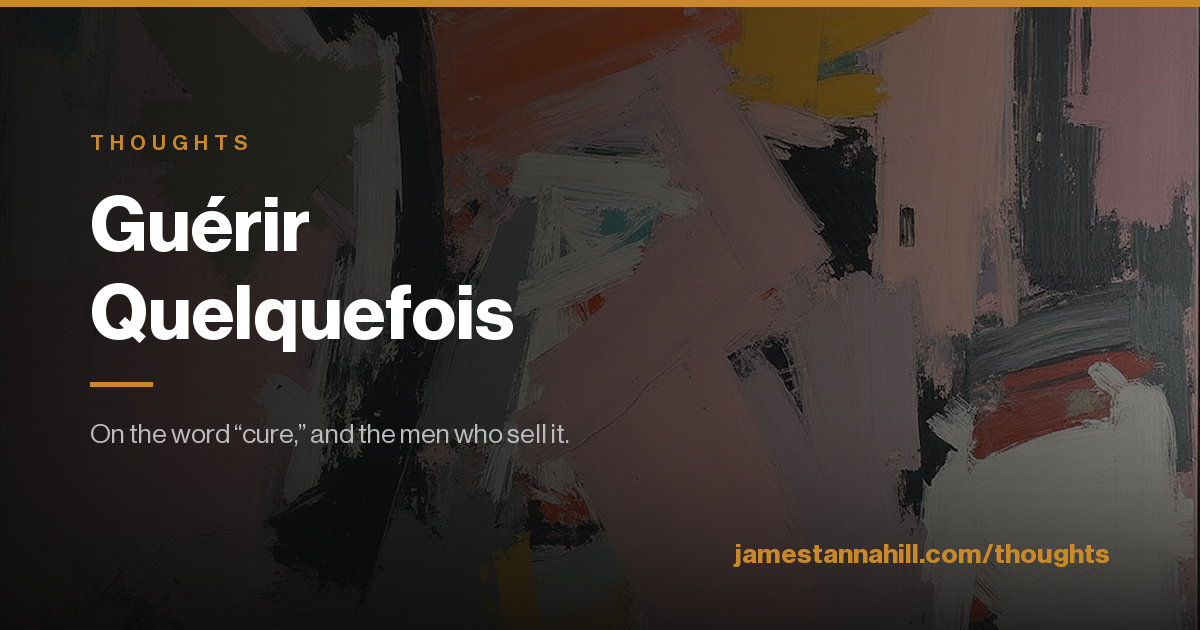
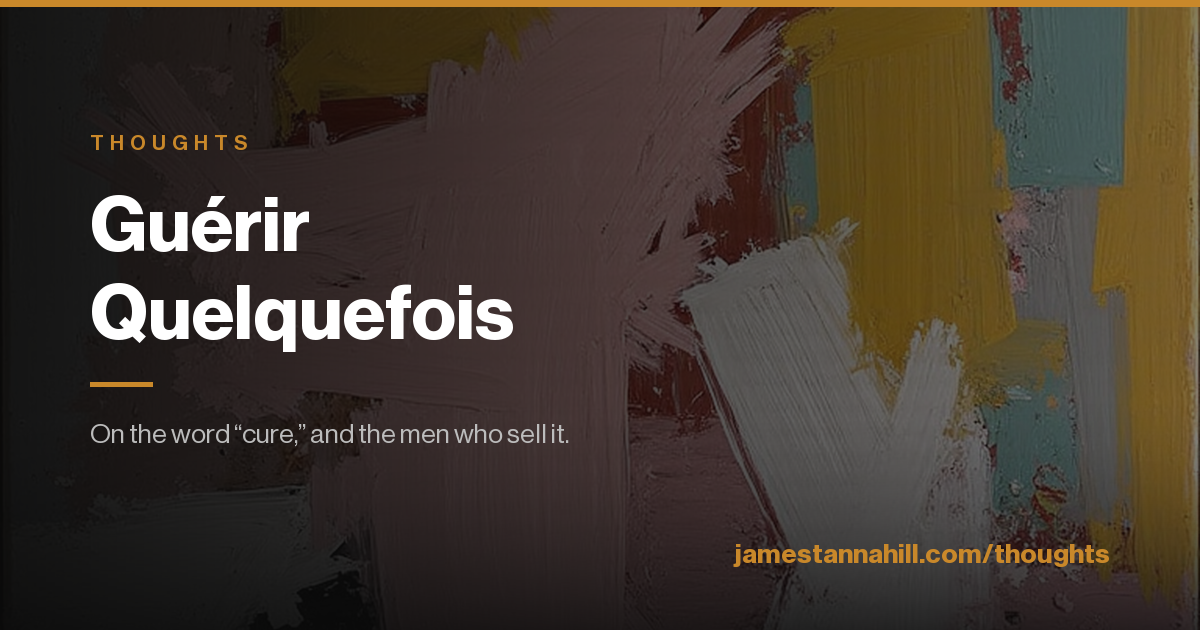
fix: no artwork repeats anywhere across Thoughts
Every slot now shows a distinct piece: 13 placements, 13 different works.
Index cards previously repeated each essay's opening plate, and every OG
card repeated it a third time. Cards now draw from the Aug 2 and Aug 3 runs
(same location on a different day is a different painting), and the OG cards
use four works that appear on no page. Sea Room's card swapped off the
Australasia canvas, which cropped to near-black.

Also removes the Melville epigraph from the top of Sea Room, and bumps the
OG cache-buster to v=3 so scrapers refetch the changed cards.

diff --git a/scripts/gen-og-thoughts.py b/scripts/gen-og-thoughts.py
@@ -113,7 +113,7 @@ def card(path, artwork, eyebrow, title_lines, standfirst_lines, url):
 
 card(
     "og-guerir-quelquefois.png",
-    "art-south-america-60s-60w.png",
+    "art-region-45s-80e.png",
     "Thoughts",
     ["Guérir", "Quelquefois"],
     ["On the word “cure,” and the men who sell it."],
@@ -122,7 +122,7 @@ card(
 
 card(
     "og-the-unsmiling-class.png",
-    "art-central-asia-45n-90e.png",
+    "art-arctic-60n-70w.png",
     "Thoughts",
     ["The Unsmiling", "Class"],
     ["On the finance headshot, and the face", "it has agreed to wear."],
@@ -131,7 +131,7 @@ card(
 
 card(
     "og-thoughts.png",
-    "art-region-60s-0e.png",
+    "art-tropical-south-america-15s-70w.png",
     "Thoughts",
     ["Occasional", "Essays"],
     ["Markets, medicine, and the language", "both are written in."],
@@ -140,7 +140,7 @@ card(
 
 card(
     "og-sea-room.png",
-    "art-arctic-60n-140e.png",
+    "art-b-region-60s-0e.png",
     "Thoughts",
     ["Sea", "Room"],
     ["On knowing where you are, and having", "somewhere to go."],

diff --git a/drafts/sea-room.md b/drafts/sea-room.md
@@ -2,8 +2,6 @@
 
 ## On the difference between knowing where you are and having somewhere to go
 
-the open independence of her sea. Melville, "The Lee Shore"
-
 Modern navigation has solved a problem that killed sailors for three thousand years, and it has solved it so completely that the achievement is now invisible. A receiver the size of a matchbox will report your position to within a few metres, continuously, in fog, at night, in weather that would have blinded Cook. There is no longer any serious sense in which a competent mariner does not know where he is.
 
 And yet the sea kills people at roughly the rate it always did, which should tell us something about what knowledge was ever worth.
